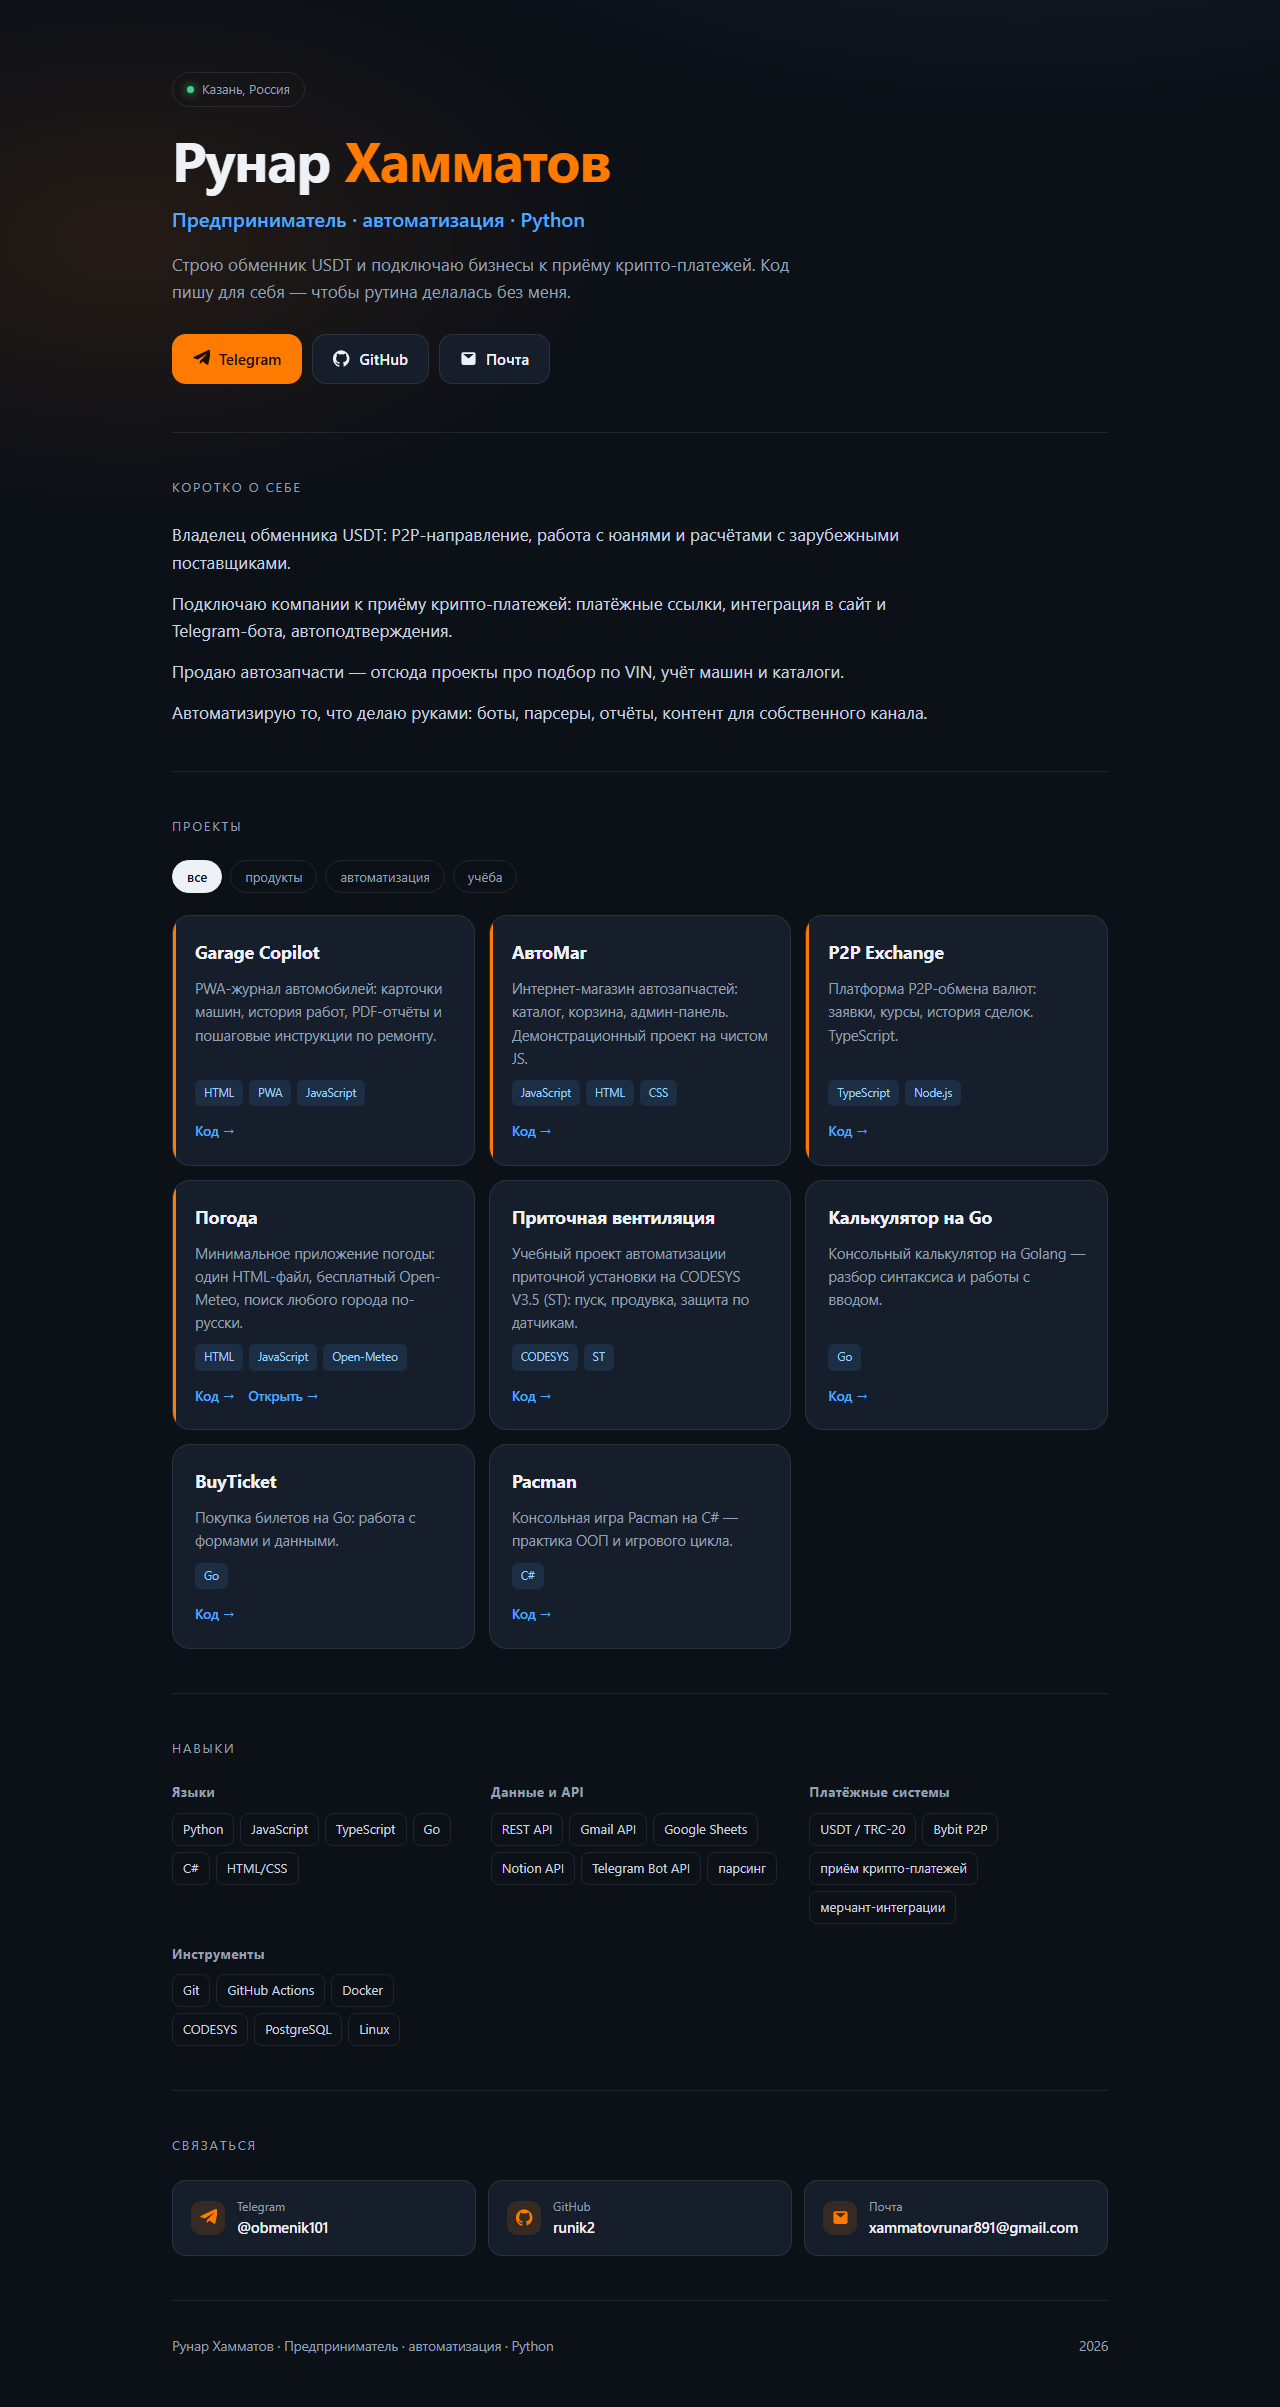
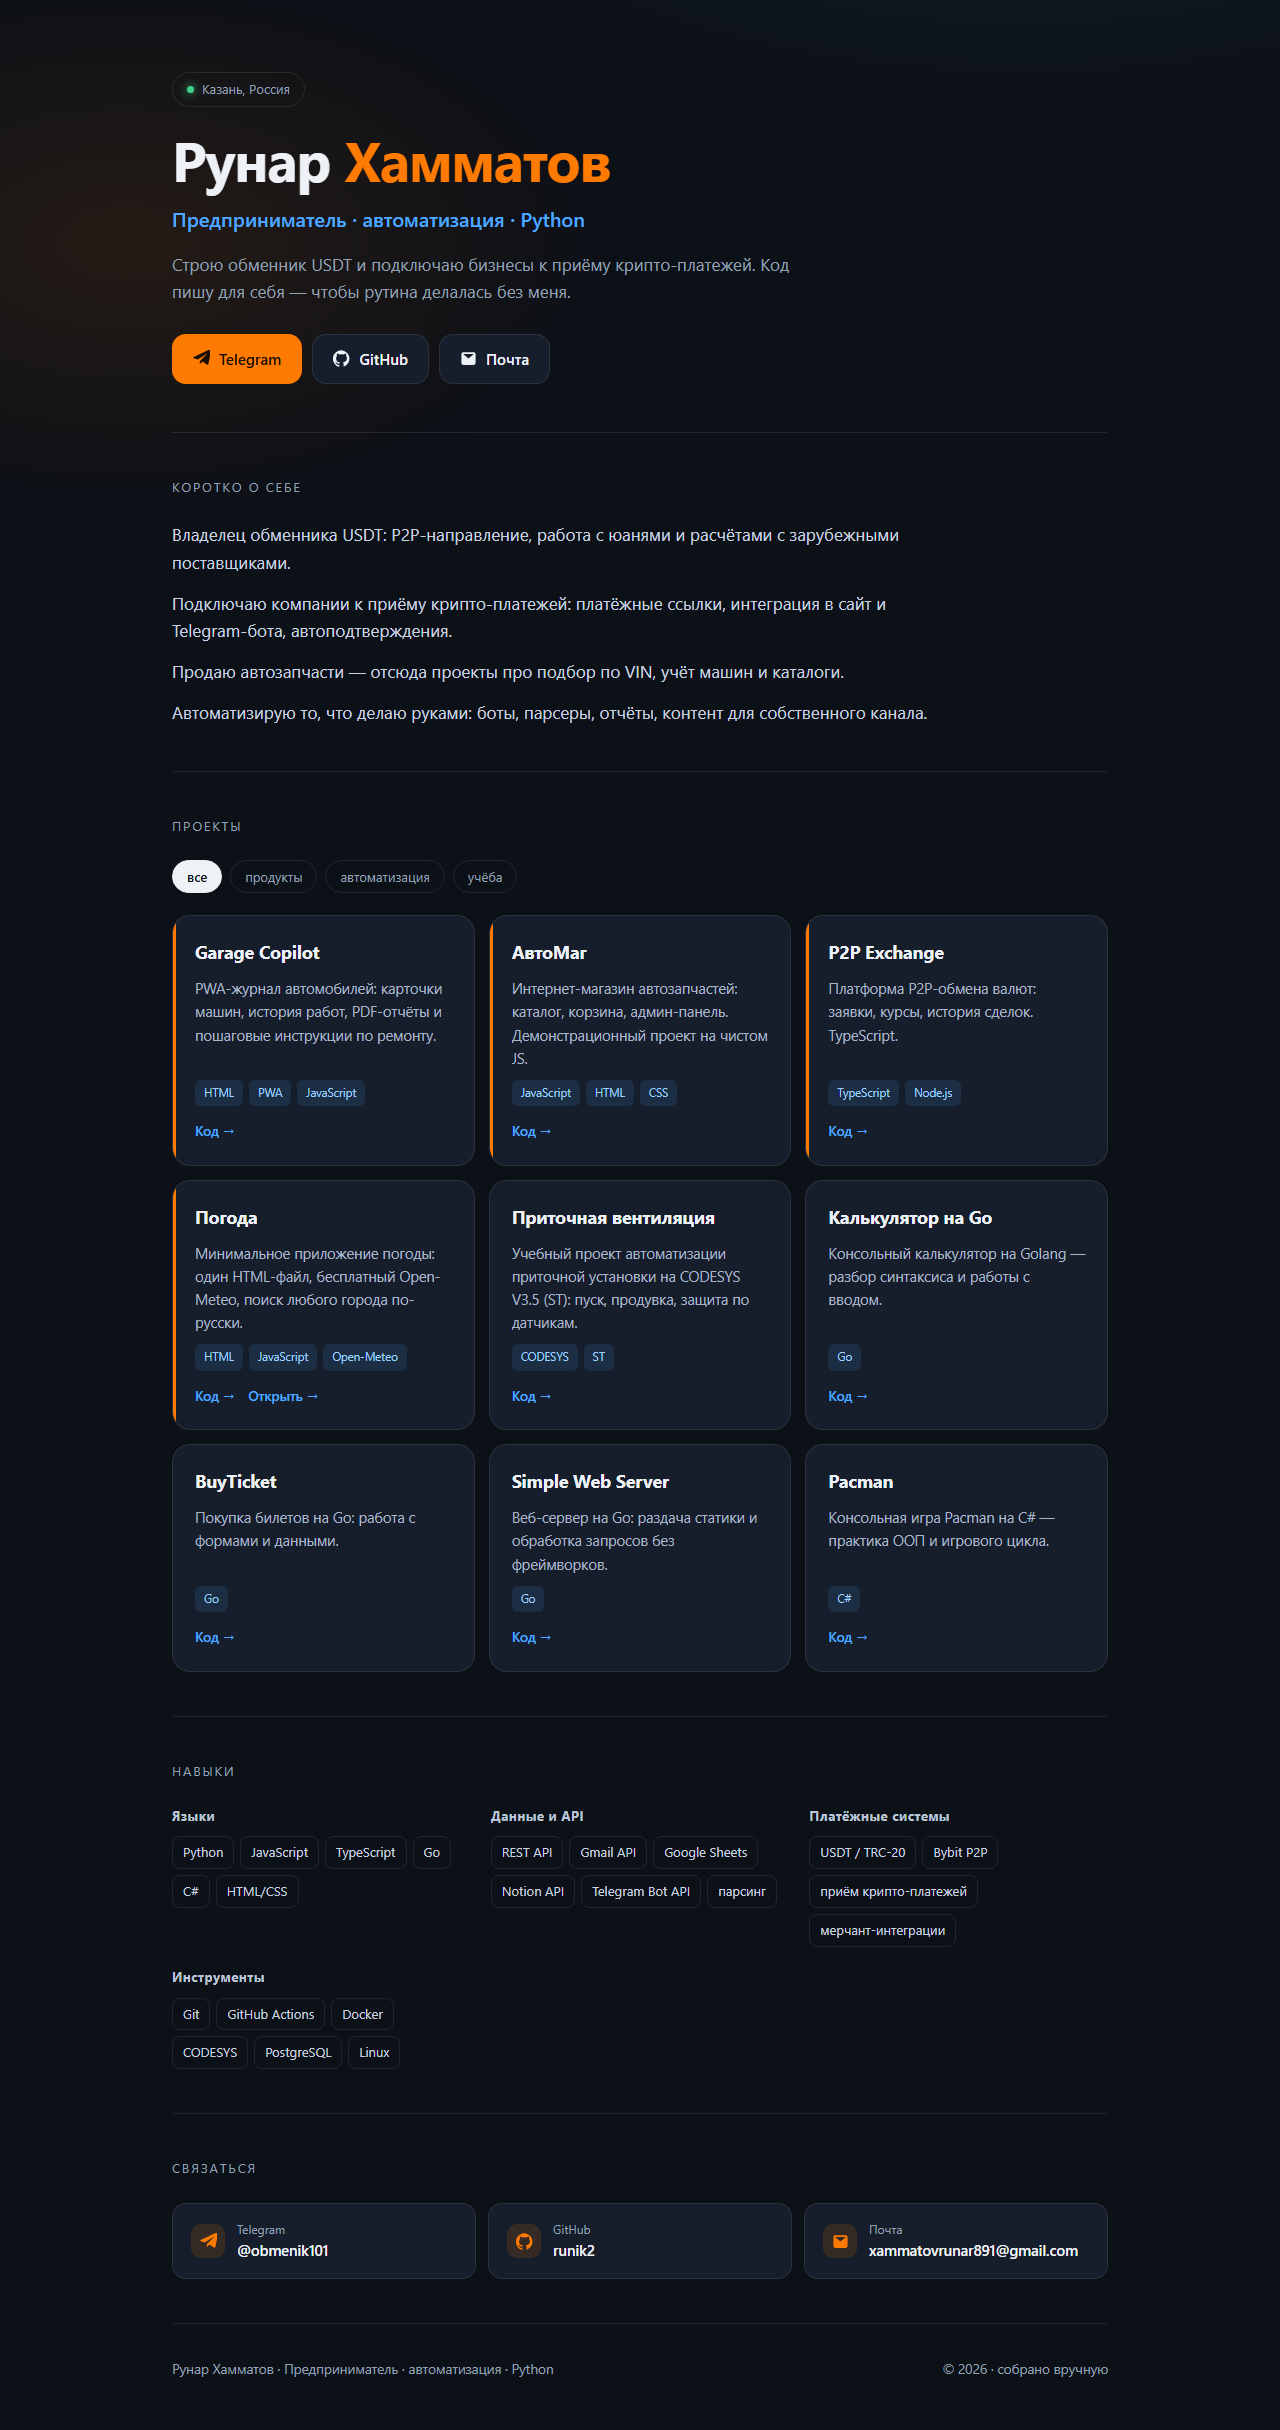
Мобильные правки: тач-зоны чипов, контраст заголовков, нижний отступ

diff --git a/index.html b/index.html
@@ -45,14 +45,15 @@
 
   /* sections */
   section{padding:44px 0;border-top:1px solid var(--line)}
-  .h2{font-size:13px;letter-spacing:.14em;text-transform:uppercase;color:var(--muted);margin-bottom:24px}
+  .h2{font-size:13px;letter-spacing:.14em;text-transform:uppercase;color:#a7b3c4;margin-bottom:24px}
   .about p{color:#c8d2e0;font-size:17px;margin-bottom:14px;max-width:760px}
   .about p:last-child{margin-bottom:0}
 
   /* projects */
   .filters{display:flex;gap:8px;flex-wrap:wrap;margin-bottom:22px}
   .chip{
-    font-size:13px;padding:7px 14px;border-radius:999px;border:1px solid var(--line);
+    font-size:13.5px;padding:9px 16px;min-height:40px;border-radius:999px;border:1px solid var(--line);
+    display:inline-flex;align-items:center;
     color:var(--muted);cursor:pointer;background:transparent;font-family:inherit;
     transition:all .15s;
   }
@@ -94,7 +95,7 @@
   .contact .l{font-size:12px;color:var(--muted)}
   .contact .v{font-size:14.5px;font-weight:600}
 
-  footer{padding:34px 0 50px;border-top:1px solid var(--line);color:var(--muted);font-size:13.5px;display:flex;justify-content:space-between;gap:14px;flex-wrap:wrap}
+  footer{padding:34px 0 calc(50px + env(safe-area-inset-bottom));border-top:1px solid var(--line);color:var(--muted);font-size:13.5px;display:flex;justify-content:space-between;gap:14px;flex-wrap:wrap}
   @media(max-width:600px){
     header{padding:48px 0 34px}
     section{padding:34px 0}
